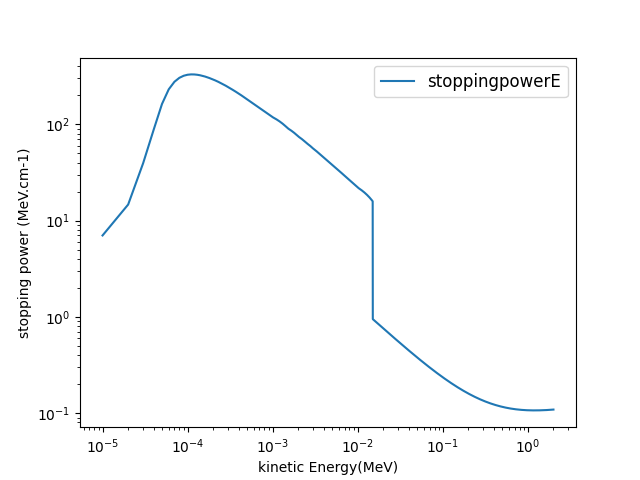
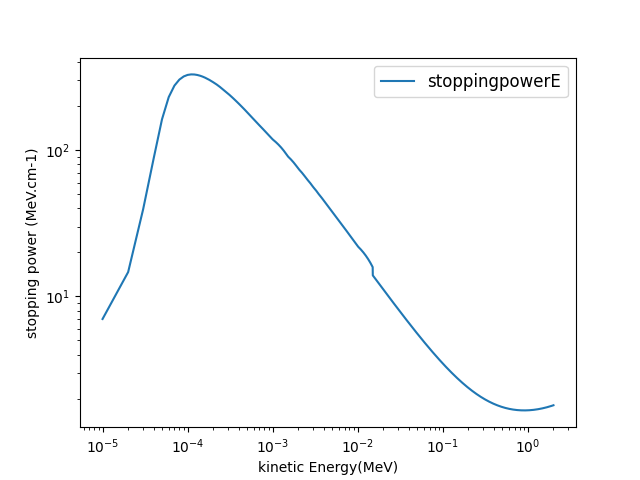
TEST

diff --git a/MCTDCRcode/TDCR_model_lib.py b/MCTDCRcode/TDCR_model_lib.py
@@ -275,7 +275,7 @@ dEdx1 = []
 #dEdx2 = []
 e1 = np.linspace(10,2e6,200000)
 for i in e1:
-    dEdx1.append(stoppingpower(i,rho=0.96,Z=4.9,A=151))
+    dEdx1.append(stoppingpower(i,rho=0.96,Z=72,A=151))
 #'''
 #e2 = np.linspace(1e4,1.999e4,10000)
 '''
